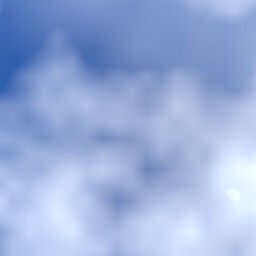
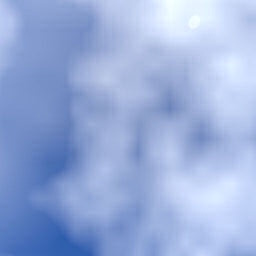
Decouple App and Studio

diff --git a/src/Lvs/Studio/Configuration.cpp b/src/Lvs/Studio/Configuration.cpp
@@ -1,60 +1,11 @@
 #include "Lvs/Studio/Configuration.hpp"
+#include "Lvs/AppInfo.hpp"
 #include "Lvs/Engine/Utils/SourcePath.hpp"
-
-#include <QFile>
-#include <QJsonDocument>
-#include <QJsonObject>
 
 namespace Lvs::Studio::Configuration {
 
-namespace {
-
-struct AppInfo {
-    QString Name{""};
-    QString StudioWindowName{""};
-    QString AppWindowName{""};
-    QString CreatorName{""};
-    QString Version{"0.0.0"};
-    int Year{0};
-    QString LogoPng{"Logo/LogoShape.png"};
-    QString LogoIco{"Logo/LogoShape.ico"};
-};
-
-const AppInfo& LoadInfo() {
-    static const AppInfo info = []() {
-        AppInfo out;
-        QFile file(":/config/AppInfo.json");
-        if (!file.open(QIODevice::ReadOnly)) {
-            file.setFileName(Engine::Utils::SourcePath::GetSourcePath("config/AppInfo.json"));
-            if (!file.open(QIODevice::ReadOnly)) {
-                return out;
-            }
-        }
-
-        const auto doc = QJsonDocument::fromJson(file.readAll());
-        file.close();
-        if (!doc.isObject()) {
-            return out;
-        }
-
-        const QJsonObject obj = doc.object();
-        out.Name = obj.value("name").toString(out.Name);
-        out.StudioWindowName = obj.value("studio_window_name").toString(out.StudioWindowName);
-        out.AppWindowName = obj.value("app_window_name").toString(out.AppWindowName);
-        out.CreatorName = obj.value("creator_name").toString(out.CreatorName);
-        out.Version = obj.value("version").toString(out.Version);
-        out.Year = obj.value("year").toInt(out.Year);
-        out.LogoPng = obj.value("logo_png").toString(out.LogoPng);
-        out.LogoIco = obj.value("logo_ico").toString(out.LogoIco);
-        return out;
-    }();
-    return info;
-}
-
-} // namespace
-
 QString GetName() {
-    return LoadInfo().Name;
+    return AppInfo::GetName();
 }
 
 QString GetFullName() {
@@ -62,31 +13,27 @@ QString GetFullName() {
 }
 
 QString GetFullCreatorName() {
-    return LoadInfo().CreatorName;
+    return AppInfo::GetCreatorName();
 }
 
 QString GetVersion() {
-    return LoadInfo().Version;
+    return AppInfo::GetVersion();
 }
 
 int GetYear() {
-    return LoadInfo().Year;
+    return AppInfo::GetYear();
 }
 
 QString GetStudioWindowName() {
-    return LoadInfo().StudioWindowName;
-}
-
-QString GetAppWindowName() {
-    return LoadInfo().AppWindowName;
+    return AppInfo::GetStudioWindowName();
 }
 
 QString GetLogoPathPNG() {
-    return Engine::Utils::SourcePath::GetResourcePath(LoadInfo().LogoPng);
+    return Engine::Utils::SourcePath::GetResourcePath(AppInfo::GetLogoPng());
 }
 
 QString GetLogoPathICO() {
-    return Engine::Utils::SourcePath::GetResourcePath(LoadInfo().LogoIco);
+    return Engine::Utils::SourcePath::GetResourcePath(AppInfo::GetLogoIco());
 }
 
 } // namespace Lvs::Studio::Configuration

diff --git a/src/Lvs/AppInfo.cpp b/src/Lvs/AppInfo.cpp
@@ -1,0 +1,88 @@
+#include "Lvs/AppInfo.hpp"
+#include "Lvs/Engine/Utils/SourcePath.hpp"
+
+#include <QFile>
+#include <QJsonDocument>
+#include <QJsonObject>
+
+namespace Lvs::AppInfo {
+
+namespace {
+
+struct AppInfoData {
+    QString Name{""};
+    QString StudioWindowName{""};
+    QString AppWindowName{""};
+    QString CreatorName{""};
+    QString Version{"0.0.0"};
+    int Year{0};
+    QString LogoPng{"Logo/LogoShape.png"};
+    QString LogoIco{"Logo/LogoShape.ico"};
+};
+
+const AppInfoData& LoadInfo() {
+    static const AppInfoData info = []() {
+        AppInfoData out;
+        QFile file(":/config/AppInfo.json");
+        if (!file.open(QIODevice::ReadOnly)) {
+            file.setFileName(Engine::Utils::SourcePath::GetSourcePath("config/AppInfo.json"));
+            if (!file.open(QIODevice::ReadOnly)) {
+                return out;
+            }
+        }
+
+        const auto doc = QJsonDocument::fromJson(file.readAll());
+        file.close();
+        if (!doc.isObject()) {
+            return out;
+        }
+
+        const QJsonObject obj = doc.object();
+        out.Name = obj.value("name").toString(out.Name);
+        out.StudioWindowName = obj.value("studio_window_name").toString(out.StudioWindowName);
+        out.AppWindowName = obj.value("app_window_name").toString(out.AppWindowName);
+        out.CreatorName = obj.value("creator_name").toString(out.CreatorName);
+        out.Version = obj.value("version").toString(out.Version);
+        out.Year = obj.value("year").toInt(out.Year);
+        out.LogoPng = obj.value("logo_png").toString(out.LogoPng);
+        out.LogoIco = obj.value("logo_ico").toString(out.LogoIco);
+        return out;
+    }();
+    return info;
+}
+
+} // namespace
+
+QString GetName() {
+    return LoadInfo().Name;
+}
+
+QString GetStudioWindowName() {
+    return LoadInfo().StudioWindowName;
+}
+
+QString GetAppWindowName() {
+    return LoadInfo().AppWindowName;
+}
+
+QString GetCreatorName() {
+    return LoadInfo().CreatorName;
+}
+
+QString GetVersion() {
+    return LoadInfo().Version;
+}
+
+int GetYear() {
+    return LoadInfo().Year;
+}
+
+QString GetLogoPng() {
+    return LoadInfo().LogoPng;
+}
+
+QString GetLogoIco() {
+    return LoadInfo().LogoIco;
+}
+
+} // namespace Lvs::AppInfo

diff --git a/src/Lvs/Engine/Rendering/Vulkan/VulkanCubemapUtils.cpp b/src/Lvs/Engine/Rendering/Vulkan/VulkanCubemapUtils.cpp
@@ -102,18 +102,9 @@ void EndOneTimeCommands(
 void ApplySkyboxFaceProcessing(
     QImage& image,
     const std::size_t faceIndex,
-    const bool rotateUpDownFaces,
     const int resolutionCap,
     const bool compression
 ) {
-    if (rotateUpDownFaces) {
-        if (faceIndex == 2U) {
-            image = image.transformed(QTransform().rotate(-90.0));
-        } else if (faceIndex == 3U) {
-            image = image.transformed(QTransform().rotate(90.0));
-        }
-    }
-
     if (resolutionCap > 0) {
         const int maxSide = std::max(image.width(), image.height());
         if (maxSide > resolutionCap) {
@@ -291,7 +282,6 @@ CubemapHandle CreateCubemapFromPaths(
     const VkQueue queue,
     const std::uint32_t queueFamilyIndex,
     const std::array<QString, 6>& facePaths,
-    const bool rotateUpDownFaces,
     const bool linearFiltering,
     const int resolutionCap,
     const bool compression
@@ -303,7 +293,7 @@ CubemapHandle CreateCubemapFromPaths(
         if (image.isNull()) {
             throw std::runtime_error(QString("Failed to load skybox face: %1").arg(resolved).toStdString());
         }
-        ApplySkyboxFaceProcessing(image, i, rotateUpDownFaces, resolutionCap, compression);
+        ApplySkyboxFaceProcessing(image, i, resolutionCap, compression);
         if (i > 0U && (image.width() != faces[0].width() || image.height() != faces[0].height())) {
             throw std::runtime_error("Skybox faces must have identical dimensions.");
         }
@@ -326,7 +316,6 @@ CubemapHandle CreateCubemapFromCrossPath(
     const VkQueue queue,
     const std::uint32_t queueFamilyIndex,
     const QString& crossPath,
-    const bool rotateUpDownFaces,
     const bool linearFiltering,
     const int resolutionCap,
     const bool compression
@@ -357,7 +346,7 @@ CubemapHandle CreateCubemapFromCrossPath(
     };
 
     for (std::size_t i = 0; i < faces.size(); ++i) {
-        ApplySkyboxFaceProcessing(faces[i], i, rotateUpDownFaces, resolutionCap, compression);
+        ApplySkyboxFaceProcessing(faces[i], i, resolutionCap, compression);
     }
 
     return CreateCubemapFromFaceImages(

diff --git a/src/Lvs/Engine/Rendering/Vulkan/SkyboxRenderer.cpp b/src/Lvs/Engine/Rendering/Vulkan/SkyboxRenderer.cpp
@@ -118,7 +118,6 @@ void SkyboxRenderer::UpdateResources(VulkanContext& context) {
     const bool linearFiltering = filtering == Enums::TextureFiltering::Linear;
     const auto textureLayout = sourceSky->GetProperty("TextureLayout").value<Enums::SkyboxTextureLayout>();
     const QString crossTexture = sourceSky->GetProperty("CrossTexture").toString();
-    const bool rotateUpDownFaces = sourceSky->GetProperty("RotateUpDownFaces").toBool();
     const int resolutionCap = sourceSky->GetProperty("ResolutionCap").toInt();
     const bool compression = sourceSky->GetProperty("Compression").toBool();
 
@@ -131,7 +130,6 @@ void SkyboxRenderer::UpdateResources(VulkanContext& context) {
                 context.GetGraphicsQueue(),
                 context.GetGraphicsQueueFamily(),
                 crossTexture,
-                rotateUpDownFaces,
                 linearFiltering,
                 resolutionCap,
                 compression
@@ -143,7 +141,6 @@ void SkyboxRenderer::UpdateResources(VulkanContext& context) {
                 context.GetGraphicsQueue(),
                 context.GetGraphicsQueueFamily(),
                 faces,
-                rotateUpDownFaces,
                 linearFiltering,
                 resolutionCap,
                 compression

diff --git a/src/main_App.cpp b/src/main_App.cpp
@@ -1,10 +1,10 @@
-#include "Lvs/Studio/Configuration.hpp"
+#include "Lvs/App/Configuration.hpp"
 #include "Lvs/Launcher/BuildType.hpp"
 #include "Lvs/Launcher/Launcher.hpp"
 
 int main(int argc, char* argv[]) {
-    const auto appName = Lvs::Studio::Configuration::GetAppWindowName().toUtf8();
-    const auto appIcon = Lvs::Studio::Configuration::GetLogoPathICO().toUtf8();
+    const auto appName = Lvs::App::Configuration::GetWindowName().toUtf8();
+    const auto appIcon = Lvs::App::Configuration::GetLogoPathICO().toUtf8();
     return Lvs::Launcher::Run(
         argc,
         argv,

diff --git a/src/Lvs/Engine/Rendering/Vulkan/VulkanCubemapUtils.hpp b/src/Lvs/Engine/Rendering/Vulkan/VulkanCubemapUtils.hpp
@@ -24,7 +24,6 @@ CubemapHandle CreateCubemapFromPaths(
     VkQueue queue,
     std::uint32_t queueFamilyIndex,
     const std::array<QString, 6>& facePaths,
-    bool rotateUpDownFaces,
     bool linearFiltering,
     int resolutionCap,
     bool compression
@@ -36,7 +35,6 @@ CubemapHandle CreateCubemapFromCrossPath(
     VkQueue queue,
     std::uint32_t queueFamilyIndex,
     const QString& crossPath,
-    bool rotateUpDownFaces,
     bool linearFiltering,
     int resolutionCap,
     bool compression

diff --git a/src/Lvs/App/Configuration.cpp b/src/Lvs/App/Configuration.cpp
@@ -1,0 +1,19 @@
+#include "Lvs/App/Configuration.hpp"
+#include "Lvs/AppInfo.hpp"
+#include "Lvs/Engine/Utils/SourcePath.hpp"
+
+namespace Lvs::App::Configuration {
+
+QString GetWindowName() {
+    return AppInfo::GetAppWindowName();
+}
+
+QString GetLogoPathPNG() {
+    return Engine::Utils::SourcePath::GetResourcePath(AppInfo::GetLogoPng());
+}
+
+QString GetLogoPathICO() {
+    return Engine::Utils::SourcePath::GetResourcePath(AppInfo::GetLogoIco());
+}
+
+} // namespace Lvs::App::Configuration

diff --git a/src/Lvs/Engine/Objects/Skybox.cpp b/src/Lvs/Engine/Objects/Skybox.cpp
@@ -84,12 +84,6 @@ Core::ClassDescriptor& Skybox::Descriptor() {
             true,
             "Textures"
         ));
-        descriptor.RegisterProperty(Core::ObjectBase::MakePropertyDefinition<bool>(
-            "RotateUpDownFaces",
-            false,
-            true,
-            "Textures"
-        ));
         descriptor.RegisterProperty(Core::ObjectBase::MakePropertyDefinition<Math::Color3>(
             "Tint", Math::Color3{1.0, 1.0, 1.0}, true, "Appearance"
         ));

diff --git a/src/Lvs/AppInfo.hpp b/src/Lvs/AppInfo.hpp
@@ -1,0 +1,16 @@
+#pragma once
+
+#include <QString>
+
+namespace Lvs::AppInfo {
+
+QString GetName();
+QString GetStudioWindowName();
+QString GetAppWindowName();
+QString GetCreatorName();
+QString GetVersion();
+int GetYear();
+QString GetLogoPng();
+QString GetLogoIco();
+
+} // namespace Lvs::AppInfo

diff --git a/src/Lvs/App/Configuration.hpp b/src/Lvs/App/Configuration.hpp
@@ -1,0 +1,11 @@
+#pragma once
+
+#include <QString>
+
+namespace Lvs::App::Configuration {
+
+QString GetWindowName();
+QString GetLogoPathPNG();
+QString GetLogoPathICO();
+
+} // namespace Lvs::App::Configuration

diff --git a/src/Lvs/Studio/Configuration.hpp b/src/Lvs/Studio/Configuration.hpp
@@ -10,7 +10,6 @@ QString GetFullCreatorName();
 QString GetVersion();
 int GetYear();
 QString GetStudioWindowName();
-QString GetAppWindowName();
 QString GetLogoPathPNG();
 QString GetLogoPathICO();
 
